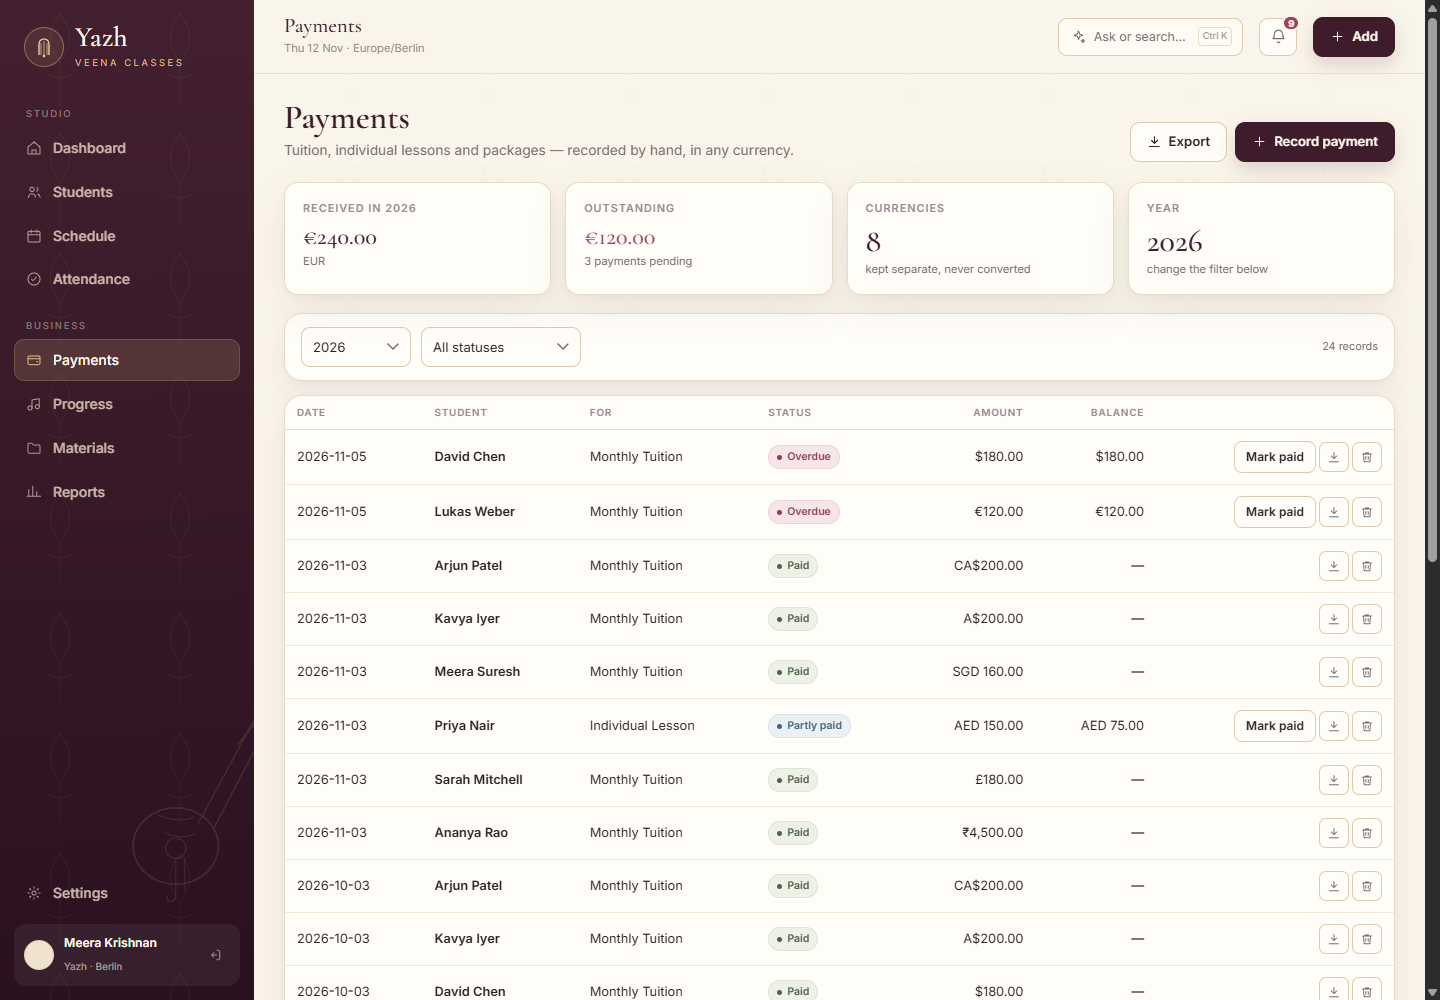
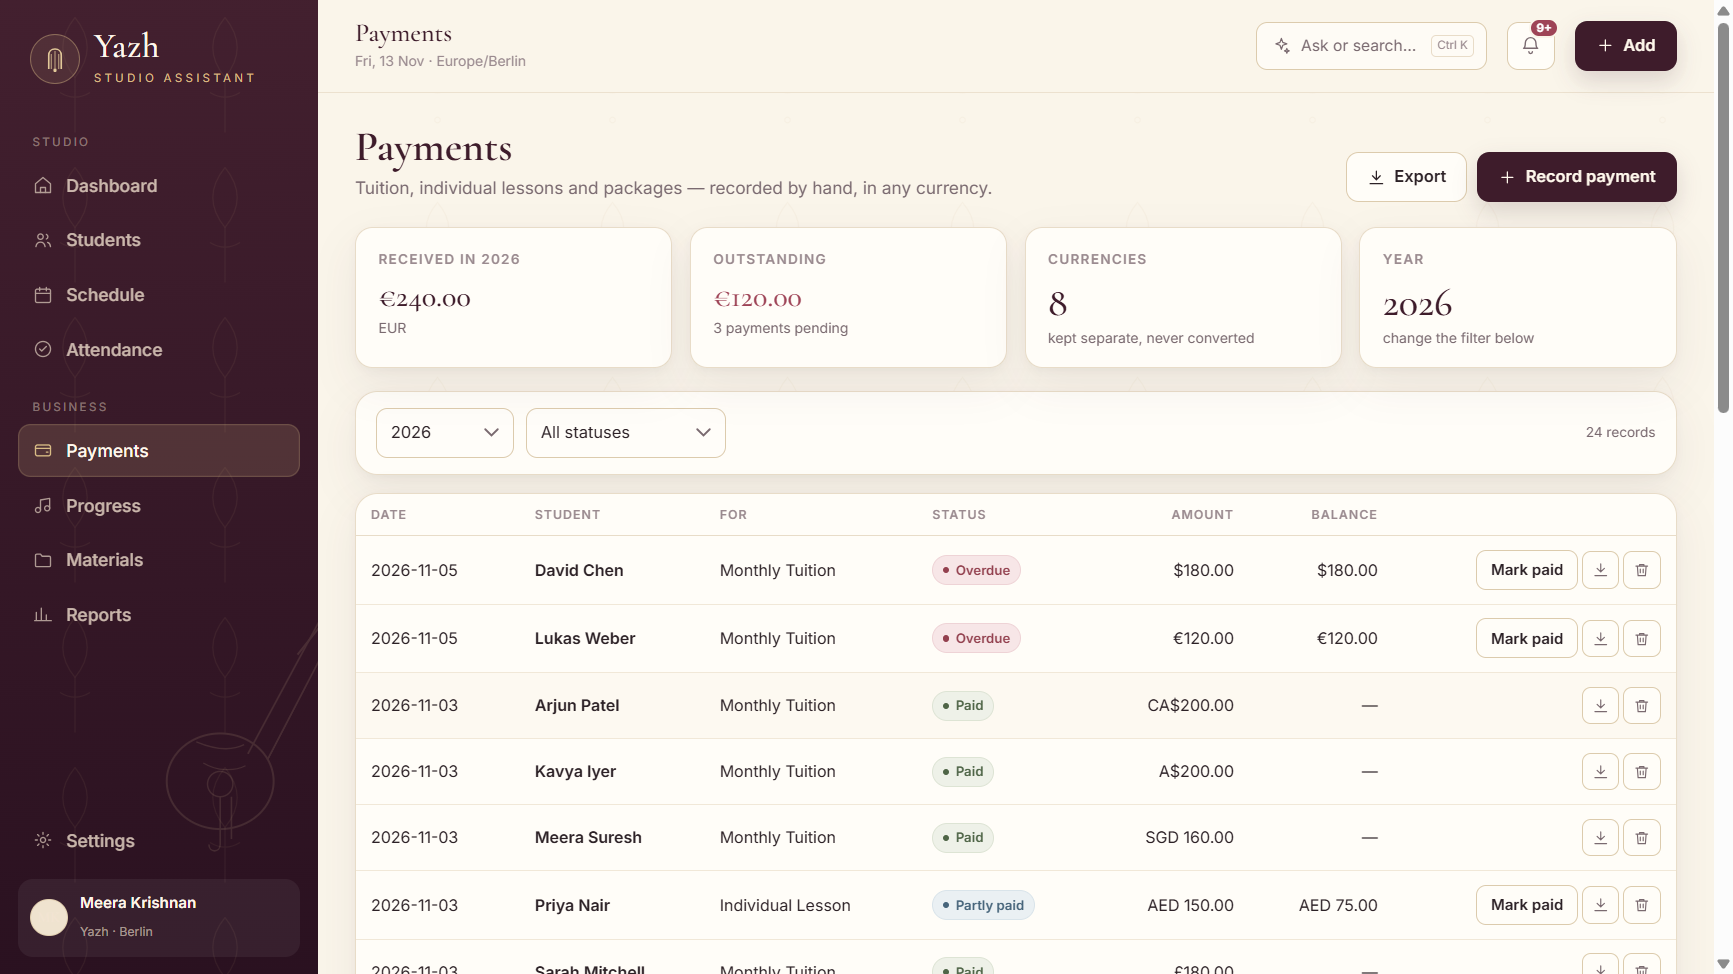
docs: Yazh 1.3.0 downloads and studio-assistant guide

diff --git a/README.md b/README.md
@@ -1,8 +1,8 @@
-# Yazh — Veena Classes · downloads
+# Yazh — Studio Assistant · downloads
 
-A calm, offline studio app for a veena teacher: students, lessons, attendance,
-class balances and payments. Nothing to install, nothing uploaded, no internet
-needed.
+A calm, offline studio for private music teachers: students, lessons, attendance,
+class balances, payments, materials and progress. No account, no sign-in, no
+subscription, no telemetry.
 
 **[⬇ Download the latest build](https://github.com/wolfxwxjr/yazh-releases/releases/latest)**
 
@@ -12,138 +12,127 @@ needed.
 
 | File | What it does |
 |---|---|
-| **`Yazh-1.1.1-portable.exe`** | Opens with a demo studio — 8 fictional students, lessons and payments, so you can try everything |
-| **`Yazh-1.1.1-empty.exe`** | Opens with an empty studio — sign in and add your own students |
-| **`Yazh-1.1.1-universal.dmg`** | Mac version — universal (Intel + Apple Silicon), unsigned |
-| **`SHA256SUMS.txt`** | Checksums to verify the downloads |
+| **`Yazh-1.3.0-portable.exe`** | Demo studio — 8 fictional students, lessons and payments to try everything |
+| **`Yazh-1.3.0-empty.exe`** | Empty studio — opens with a short setup, ready for your own students |
+| **`Yazh-1.3.0-universal.dmg`** | macOS, universal (Intel + Apple Silicon), unsigned |
+| **`SHA256SUMS.txt`** | Checksums for verification |
 
-Double-click the `.exe`. There is no installer and no setup wizard.
+Double-click the `.exe`. There is no installer, no setup wizard and **no login
+screen**.
 
 > **Windows warning:** the app is not code-signed, so SmartScreen may say
-> “Windows protected your PC”. Click **More info → Run anyway**. Code-signing
-> certificates are a paid service; this does not mean the file is unsafe.
+> “Windows protected your PC”. Click **More info → Run anyway**.
 >
-> **Mac:** download **[Yazh-1.1.1-universal.dmg](https://github.com/wolfxwxjr/yazh-releases/releases/download/v1.1.0/Yazh-1.1.1-universal.dmg)**.
-> Open the DMG, drag **Yazh** into Applications, then right-click → **Open** (or
-> allow it in System Settings → Privacy & Security). It is universal — Intel and
-> Apple Silicon — and unsigned.
+> **Mac:** open the DMG, drag **Yazh** to Applications, then right-click → **Open**
+> the first time. Gatekeeper blocks unsigned apps by default.
 
-## Sign in
+## Your data
 
-```
-Email:    teacher@yazh.app
-Password: Veena@2026
-```
+Everything stays on your computer:
 
-All data stays on your computer, in `%APPDATA%\Yazh\data` (Windows) or
-`~/Library/Application Support/Yazh/data` (Mac). No account is created online.
+| Build | Folder |
+|---|---|
+| Demo | `%APPDATA%\Yazh\data` |
+| Empty | `%APPDATA%\Yazh Empty\data` |
+| Mac | `~/Library/Application Support/Yazh/data` |
 
-![Dashboard](dashboard.png)
+No cloud account, no telemetry, no student data uploaded. The desktop shell
+blocks every network request except the local studio API. Settings offers
+**Download backup**, **Backup now** and **Restore**.
+
+Because there is no password, use your computer's account lock if the machine is
+shared. Data lasts until you delete it — see the privacy note in the app/docs.
 
 ---
 
 ## What's inside
 
 ### Studio
-- **Dashboard** — active students, today's lessons, this month's income, pending
-  payments, classes left, upcoming lessons and recent activity, all calculated
-  from your own records.
-- **Students** — one **+ Add student** button; photo, contact, country, time zone,
-  level, classes per month, fee and payment arrangement.
-- **Classes remaining** — each student card shows used, booked and remaining
-  classes for the current month.
-- **Student page** — lesson history, attendance, payments, curriculum progress,
-  teacher notes and profile details.
+- **Dashboard** — today's lessons, classes left, month's income, pending
+  payments, upcoming lessons, progress rings and recent activity.
+- **Students** — one **+ Add student** button; name, instrument, contact,
+  country, time zone, level, classes per month, fee and payment arrangement.
+- **Student page** — lessons, attendance, payments, curriculum, notes and details.
 
 ### Teaching
-- **Schedule** — month, week and day views; one-off, weekly or fortnightly
-  lessons; reschedule; meeting links; in-person or online.
-- **Double-booking protection** — the app refuses overlapping lessons.
-- **Time zones** — store once in UTC, see it in your time, and see the student's
-  local time while scheduling (e.g. “13:30 her time”).
-- **Attendance** — present, absent, cancelled, rescheduled or completed, from the
-  dashboard, calendar or attendance page.
-- **Progress** — Carnatic stages from Sarali Varisai through Kriti, with
-  percentages and dated notes on ragas, talas, technique and practice.
+- **Schedule** — month, week and day views; weekly/fortnightly lessons;
+  reschedule; online links; double-booking prevention.
+- **Time zones** — stored in UTC, shown in your time, with the student's local
+  time while scheduling.
+- **Attendance** — present, absent, cancelled, rescheduled or completed.
+- **Lesson notes** — what you covered and what to practise next.
+- **Make-up credits** — cancelling creates a credit; redeem or waive it.
+- **Progress** — editable curriculum (Carnatic stages as a starter), custom
+  stages, and technique/repertoire/practice notes.
+- **Materials** — PDFs, audio, video, images, links and written lesson notes,
+  assigned to students.
 
 ### Money
-- **Payments** — monthly tuition, individual lessons and packages; 13 currencies
-  kept separate (never silently converted); paid, pending, overdue or partly
-  paid; outstanding balances.
-- **Receipts** — a PDF receipt for any payment.
-- **CSV export** — the year's payments for your own records.
+- Monthly tuition, individual lessons and packages across **13 currencies**;
+  paid, pending, overdue or partly paid; balances; PDF receipts; CSV export.
+- **Reports** — revenue, lessons, attendance, student growth, outstanding
+  balances, progress and countries, with **PDF and CSV** export.
 
 ### Extras
-- **Ask Yazh** — press **Ctrl/Cmd + K** and ask “who owes money?”, “classes left
-  for Ananya”, “today's lessons”, “this month's income”, or ask about veena
-  history, famous players, tuning and beginner practice. Studio answers come from
-  your data; the veena notes are a short offline reference. No AI service, no key,
-  no internet.
-- **Thirukkural of the day** — Tamil verse with G. U. Pope's 1886 English
-  translation on the login screen and dashboard.
-- **Notifications** — in-app reminders for tomorrow's lessons, overdue payments
-  and missed lessons.
+- **First-run setup** — name, studio, region, time zone, currency.
+- **Automatic backups** — daily, last 14 kept, restore-on-restart.
+- **Settings** — region, time zone, currency, date/time format, week start,
+  text size, high contrast, language, demo cleanup.
+- **Tamil** — navigation, page titles and settings labels (partial).
+- **Ask Yazh** — `Ctrl/Cmd + K`: “who owes money?”, “classes left for Ananya”,
+  “today's lessons”, plus a short veena reference.
+- **Thirukkural** — a daily verse in Tamil with G. U. Pope's 1886 translation.
 
+![Dashboard](dashboard.png)
 ![Students](students.png)
 ![Schedule](schedule.png)
 ![Payments](payments.png)
-![Ask Yazh](assistant.png)
+![Progress](progress.png)
+![Materials](materials.png)
+![Reports](reports.png)
+![Settings](settings.png)
+![First-run setup](onboarding.png)
 
 ---
 
 ## A simple daily rhythm
 
-1. Open the app. Today's lessons and classes left are on the first screen.
+1. Open the app — today's lessons and classes left are on the first screen.
 2. Tap **Present** or **Absent** on the lesson row.
-3. **+ Add → Schedule lesson** for a new class; the student's local time appears
-   under the form.
-4. **+ Add → Record payment** when money arrives; download the receipt.
-5. Open a student card for their history and progress.
+3. Add a note: what you covered, what to practise.
+4. **+ Add → Schedule lesson**; the student's local time appears under the form.
+5. **+ Add → Record payment**; download the receipt.
 6. **Ctrl/Cmd + K** for a quick question.
 
-## Where your data lives
+## Version 1.3.0
 
-| Windows | Mac |
-|---|---|
-| `%APPDATA%\Yazh\data` | `~/Library/Application Support/Yazh/data` |
+- **For any instrument** — instrument field on every student; editable curriculum.
+- **First-run setup** for the empty build.
+- **Lesson notes** on any lesson.
+- **Make-up credits** when a lesson is cancelled.
+- **Automatic daily backups**, last-backup status and restore-on-restart.
+- **Rebrand** — “Yazh — Studio Assistant”, for private music teachers.
+- **Privacy enforcement** — localhost-only network block and `npm run privacy`.
 
-Close the app and copy that folder to back everything up. Delete or rename it to
-start fresh; the app recreates the database on the next launch.
-
-## Version 1.1.1
-
-- Ask Yazh assistant and veena reference
-- Daily Thirukkural on login and dashboard
-- Empty-studio build
-- Fixed a crash when leaving a student page for the schedule
-- Error boundary so a failed screen never leaves a blank window
-- Mac build workflow
-
-### 1.1.1
-- The empty build uses its own `Yazh Empty` data folder and no longer inherits demo students.
-- Music quote on the login panel and a daily quote footer on every screen.
-- Rebuilt Windows and Mac packages.
-
-Previous: **1.0.0** — first portable Windows build.
+Previous: **1.2.0** — no sign-in, Settings, Materials, Reports, Progress.
+**1.1.1** — empty-profile fix and daily quotes. **1.0.0** — first build.
 
 ## Verify a download
 
 ```powershell
-Get-FileHash .\Yazh-1.1.1-portable.exe -Algorithm SHA256
+Get-FileHash .\Yazh-1.3.0-portable.exe -Algorithm SHA256
 ```
 
-Compare with `SHA256SUMS.txt` in the release. GitHub's asset digest is the same
-hash.
+Compare with `SHA256SUMS.txt`. GitHub's asset digest is the same hash.
 
 ## Privacy
 
 - Local SQLite database; no telemetry, analytics or third-party runtime requests.
-- The app runs a private server bound to `127.0.0.1`.
-- No student information is uploaded anywhere.
-
-This repository contains **downloads only**. The application source is kept in a
-private repository.
+- Private server bound to `127.0.0.1`; no network exposure.
+- The renderer may only connect to the local studio.
+- This repository contains **downloads only**; source is at
+  [wolfxwxjr/yazh-studio](https://github.com/wolfxwxjr/yazh-studio) under MIT.
 
 ---
 
-Yazh · Veena Classes · 1.1.1
+Yazh · Studio Assistant · 1.3.0
